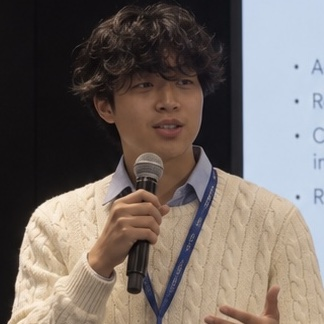
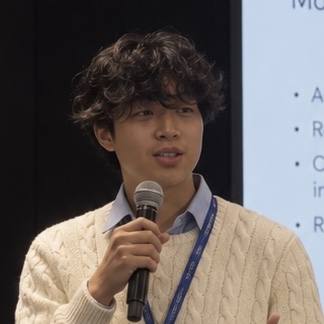
Shift profile crop up so hair is not clipped

diff --git a/index.html b/index.html
@@ -83,7 +83,7 @@
                     </div>
                 </div>
                 <div class="intro-photo">
-                    <img src="profile-photo.jpg?v=3" alt="Yanda (Luke) Lu speaking at GOSIM Paris 2026">
+                    <img src="profile-photo.jpg?v=4" alt="Yanda (Luke) Lu speaking at GOSIM Paris 2026">
                 </div>
             </div>
         </section>
